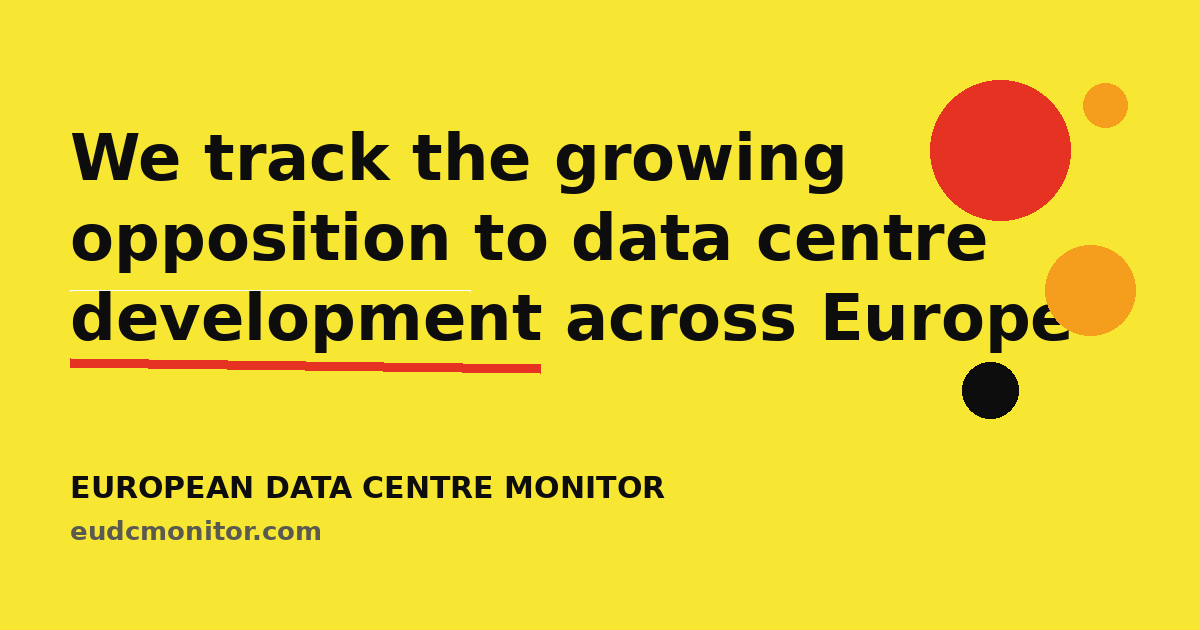
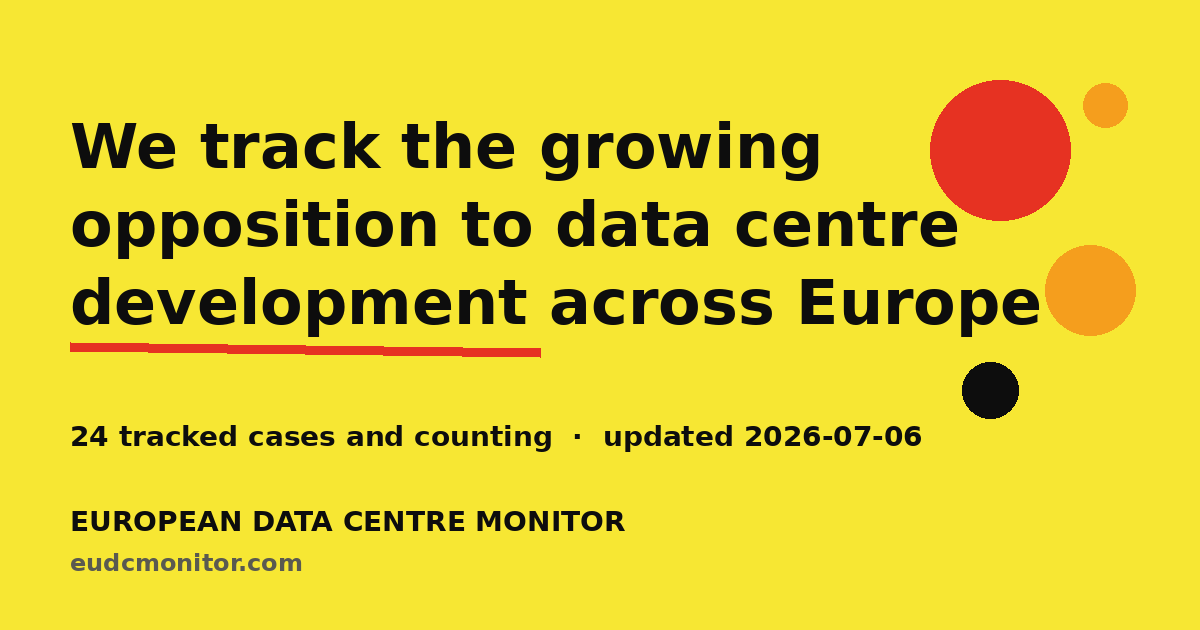
Fix map bubble scaling/overlap; data-driven og-image (24 cases)

diff --git a/index.html b/index.html
@@ -239,8 +239,8 @@
 const DEFAULT_DATA = {
   updated: "2026-07-02",
   countries: [
-    { code: "IE", x: 138, y: 165, count: 1 },
-    { code: "UK", x: 192, y: 165, count: 3 },
+    { code: "IE", x: 118, y: 170, count: 1 },
+    { code: "UK", x: 202, y: 150, count: 3 },
     { code: "NL", x: 266, y: 200, count: 2 },
     { code: "DE", x: 330, y: 230, count: 2 },
     { code: "FR", x: 250, y: 280, count: 10 },
@@ -255,7 +255,7 @@ function renderMap(data) {
   const max = Math.max(...data.countries.map(c => c.count), 1);
   const colors = ["#e63222", "#f59e1d"]; // alternate red/orange
   data.countries.forEach((c, i) => {
-    const r = 16 + 30 * Math.sqrt(c.count / max);   // area-ish scaling
+    const r = Math.min(38, 13 + 21 * Math.sqrt(c.count / max));   // capped area-ish scaling
     const ns = "http://www.w3.org/2000/svg";
     const circle = document.createElementNS(ns, "circle");
     circle.setAttribute("cx", c.x); circle.setAttribute("cy", c.y);
@@ -264,7 +264,7 @@ function renderMap(data) {
     const num = document.createElementNS(ns, "text");
     num.setAttribute("x", c.x); num.setAttribute("y", c.y + 2);
     num.setAttribute("text-anchor", "middle");
-    num.setAttribute("font-size", Math.max(13, r * 0.55));
+    num.setAttribute("font-size", Math.max(12, r * 0.5));
     num.textContent = c.count;
     const label = document.createElementNS(ns, "text");
     label.setAttribute("x", c.x); label.setAttribute("y", c.y + r + 15);